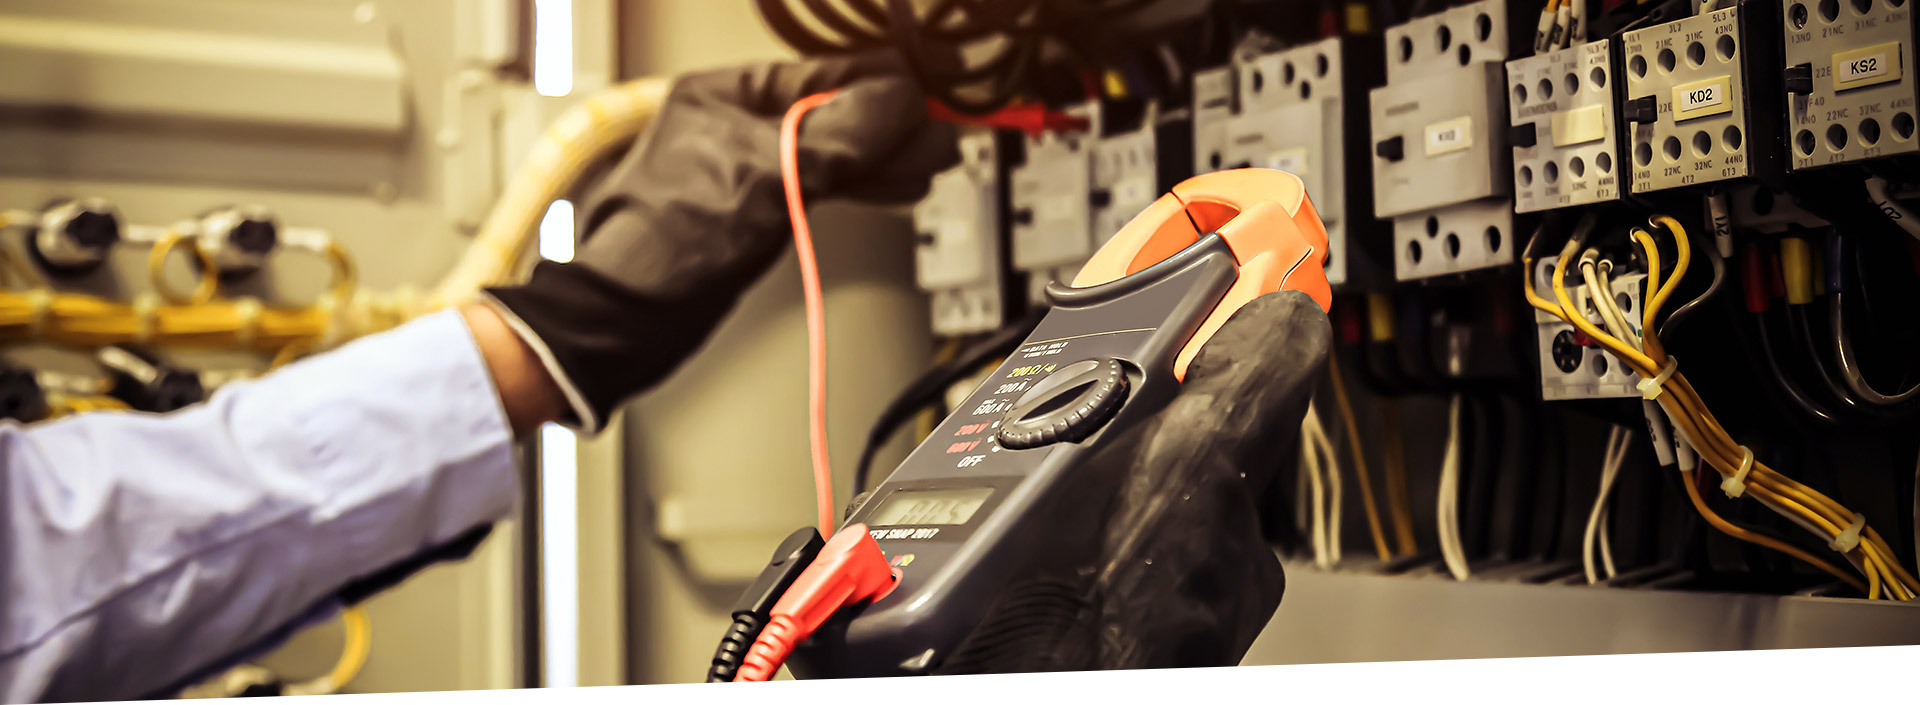
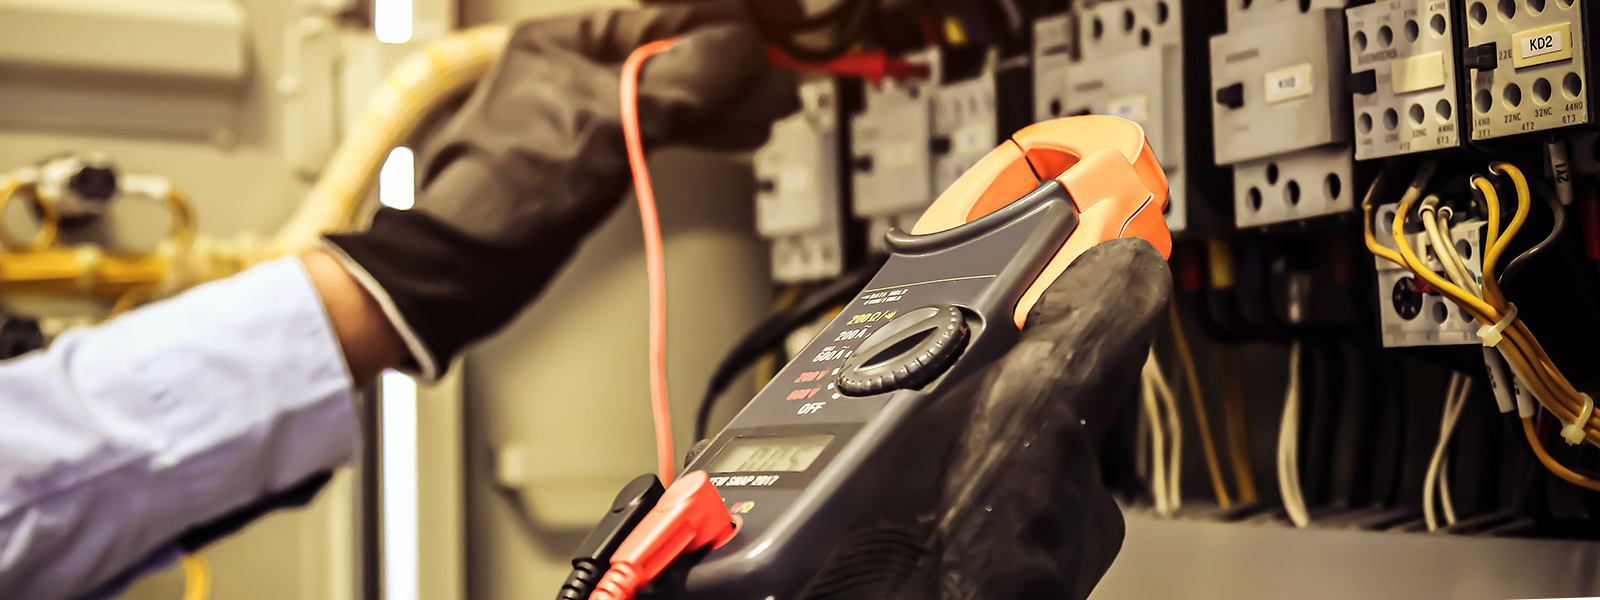
updated home page carousel  images

diff --git a/src/pages/Home/Carousel/CarouselSlider.js b/src/pages/Home/Carousel/CarouselSlider.js
@@ -8,18 +8,18 @@ import img3 from "./images/img-3.jpg";
 
 const CarouselSlider = () => {
   return (
-    <div className="h-60 sm:h-64 xl:h-[560px]">
+    <div className="h-60 sm:h-64 xl:h-[500px]">
       <Carousel>
         <div className="relative flex items-center">
-          <img src={img1} alt="..." className="brightness-50"/>
+          <img src={img1} alt="..." className="brightness-50 h-64 md:h-auto object-cover"/>
           <h2 className="text-2xl md:text-4xl lg:text-5xl font-medium text-white absolute w-3/4 md:w-1/2 left-16 md:left-20 lg:left-40 mx-auto">Spectacular <span className="text-orange-400">Customer Service</span> On the Market</h2>
         </div>
         <div className="relative flex items-center">
-          <img src={img2} alt="..." className="brightness-50"/>
+          <img src={img2} alt="..." className="brightness-50 h-64 md:h-auto object-cover"/>
           <h2 className="text-2xl md:text-4xl lg:text-5xl font-medium text-white absolute w-3/4 md:w-1/2 left-16 md:left-20 lg:left-40 mx-auto">Offering the <span className="text-orange-400">Quikest Response</span> On Cilents Need</h2>
         </div>
         <div className="relative flex items-center">
-          <img src={img3} alt="..." className="brightness-50"/>
+          <img src={img3} alt="..." className="brightness-50 h-64 md:h-auto object-cover"/>
           <h2 className="text-2xl md:text-4xl lg:text-5xl font-medium text-white absolute w-3/4 md:w-1/2 left-16 md:left-20 lg:left-40 mx-auto">Offering <span className="text-orange-400">Affordable</span> Service Plans on the Budget</h2>
         </div>
       </Carousel>

diff --git a/src/Routes/Routes.js b/src/Routes/Routes.js
@@ -10,6 +10,7 @@ import MyReviews from "../pages/MyReviews/MyReviews";
 import AddService from "../pages/AddService/AddService";
 import UpdateReview from "../pages/UpdateReview/UpdateReview";
 import PrivateRoute from "./PrivateRoute/PrivateRoute";
+import ErrorPage from "../pages/ErrorPage/ErrorPage";
 
 const routes = createBrowserRouter([
     {path: '/', element: <Main/>, children: [
@@ -42,6 +43,9 @@ const routes = createBrowserRouter([
         },
         {
             path: '/register', element: <Register></Register>
+        },
+        {
+            path: '*', element: <ErrorPage/>
         }
         
     ]}

diff --git a/src/pages/ErrorPage/ErrorPage.js b/src/pages/ErrorPage/ErrorPage.js
@@ -1,0 +1,12 @@
+import React from 'react';
+import error from './error.png'
+
+const ErrorPage = () => {
+    return (
+        <div className='h-[80vh] flex justify-center items-center'>
+            <img src={error} alt="" className='h-96'/>
+        </div>
+    );
+};
+
+export default ErrorPage;
